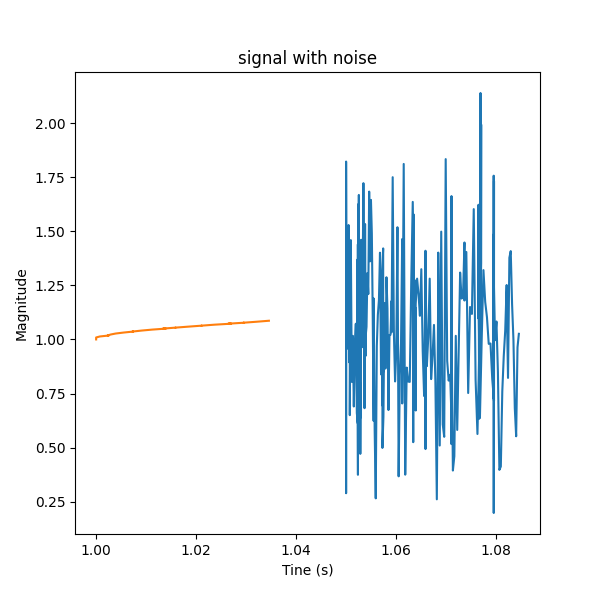
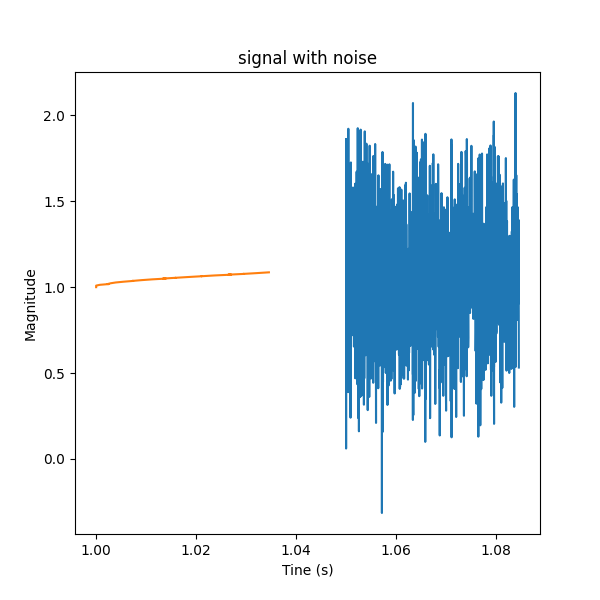
add find best SNR using joblib

diff --git a/save_grap.py b/save_grap.py
@@ -6,12 +6,13 @@ from skimage import measure
 from model_linear.train_model_linear_simulation import *
 import shutil
 matplotlib.use('Agg')
-#import multiprocessing
-from test import *
+import multiprocessing
 from joblib import Parallel, delayed
+algos_data =  ["CFD","Crack_500","CrackLS315","CrackTree260","CRKWH100"]
 
-def find_SNR_process(SNR_num,algos_data):
-    global MAE_data,RMSE_data, R2_data,M2_data,lst_SNR
+def find_SNR_process(SNR_num):
+    #global MAE_data,RMSE_data, R2_data,M2_data,lst_SNR
+    lst_SNR=[]
     #algos_data =  ["Crack_500"]#,"Cracktree","CrackForest","CRKWH_100","CrackLS315"]
     list_class_model=[Linear_Model_LM,Gaussian_GPR,Tree,SVM] #,Gaussian_GPR,Tree,SVM
     show_fig= None
@@ -29,14 +30,14 @@ def find_SNR_process(SNR_num,algos_data):
     list_R2, list_MAE, list_RMSE,list_M2=calculate_SNR_noise_dataset(algos_data,path_model_folder_input
                                                             ,path_crack_txt,SNR_num,num_point_add)
     
-    MAE_data.append(list_MAE)
-    RMSE_data.append(list_RMSE)
-    R2_data.append(list_R2)
-    M2_data.append(list_M2)
+    # MAE_data.append(list_MAE)
+    # RMSE_data.append(list_RMSE)
+    # R2_data.append(list_R2)
+    # M2_data.append(list_M2)
     lst_SNR.append(SNR_num)
-    shutil.rmtree(path_model_folder_input)
-        
-    #return MAE_data,RMSE_data,R2_data,M2_data,lst_SNR
+    # arr.append([MAE_data,RMSE_data,R2_data,M2_data,lst_SNR])
+    #shutil.rmtree(path_model_folder_input)
+    return list_R2, list_MAE, list_RMSE,list_M2,lst_SNR
 
 def clear():
     os.system(" cls ")
@@ -116,17 +117,25 @@ def save_fig(df,name):
     data_model_2.to_excel('./output/out_excel'+'/data_%s.xlsx'%name)  
 ###############################
 def find_best_SNR_process():
-    global MAE_data,RMSE_data, R2_data,M2_data,lst_SNR
+    #global MAE_data,RMSE_data, R2_data,M2_data,lst_SNR
     MAE_data,RMSE_data, R2_data,M2_data,lst_SNR=[],[],[],[],[]
-    algos_data =  ["CFD","Crack_500","CrackLS315","CrackTree260","CRKWH100"]
-   
-    Parallel(n_jobs=3)((find_SNR_process, (num_SNR,algos_data,), {}) for num_SNR in range(10,20,5))
-    #Parallel(n_jobs=3)(delayed(find_SNR_process)(num_SNR,algos_data)for num_SNR in range(10,20,5))
+    #algos_data =  ["CFD","Crack_500","CrackLS315","CrackTree260","CRKWH100"]
+    out = Parallel(n_jobs=3)((find_SNR_process, (num_SNR,), {}) for num_SNR in range(10,20,5))
+    for out_put in out:
+        R2_data.append(out_put[0])
+        MAE_data.append(out_put[1])
+        RMSE_data.append(out_put[2])
+        M2_data.append(out_put[3])
+        lst_SNR.append(out_put[4][0])
+        
+        print(MAE_data,RMSE_data, R2_data,M2_data,lst_SNR)
+        #Parallel(n_jobs=3)(delayed(find_SNR_process)(num_SNR,algos_data)for num_SNR in range(10,20,5))
 
     df_RMSE=pd.DataFrame(data=MAE_data, index=lst_SNR, columns=algos_data)    
     df_MAE=pd.DataFrame(data=RMSE_data,  index=lst_SNR,columns=algos_data)
     df_R2=pd.DataFrame(data=R2_data,  index=lst_SNR,columns=algos_data)
     df_M2=pd.DataFrame(data=M2_data, index=lst_SNR, columns=algos_data)
+    print(df_M2,df_R2)
     df_M2['sum'] =  df_M2.sum(axis=1)
     SNR_best = df_M2['sum'].idxmin()
     save_fig(df_RMSE,'RMSE')
@@ -177,4 +186,4 @@ def find_SNR_best():
     return SNR_best
 
 if __name__ == '__main__':
-    SNR_best = find_SNR_best()
+    SNR_best = find_best_SNR_process()

diff --git a/model_linear/train_model_linear_simulation.py b/model_linear/train_model_linear_simulation.py
@@ -74,7 +74,7 @@ def train_model_linear(list_class_model,path_crack_simulation,path_save,show_fig
         list_MSE_mean, list_MAE_mean, list_RMSE_mean, list_R_squared_mean, list_Accuracy = [], [], [], [], [] 
         i = 0
         
-        for i in range(0, len(point) - 1):
+        for i in range(0, len(point) - 1):#
             data1 = ((data[point[i] + 1:point[i + 1], :]))+1
             
             #X_crack,y_crack,x_simu,y_simu=nomalize_data_crack_to_simulation(data1,point_crack)

diff --git a/add_noise/noise_crack.py b/add_noise/noise_crack.py
@@ -49,7 +49,7 @@ def add_noise(X_in,y_in,Snr_db,num_point):
         if not os.path.exists(path):
                 os.mkdir(path)
         path_save = path + 'exp_' + str(Snr_db)+ '_.png'
-        #plt.savefig(path_save)
+        plt.savefig(path_save)
         plt.figure().clear()
         plt.close()
         plt.close('all')

diff --git a/test.py b/test.py
@@ -65,7 +65,8 @@ from save_grap import *
     # save_fig(df_MAE,'MAE')
     # save_fig(df_R2,'R2')
     # save_fig(df_M2,'M2')
-SNR_best=find_best_SNR_process()
+    
+SNR_best = find_best_SNR_process()
 
 # ##############################################################
 #train model
